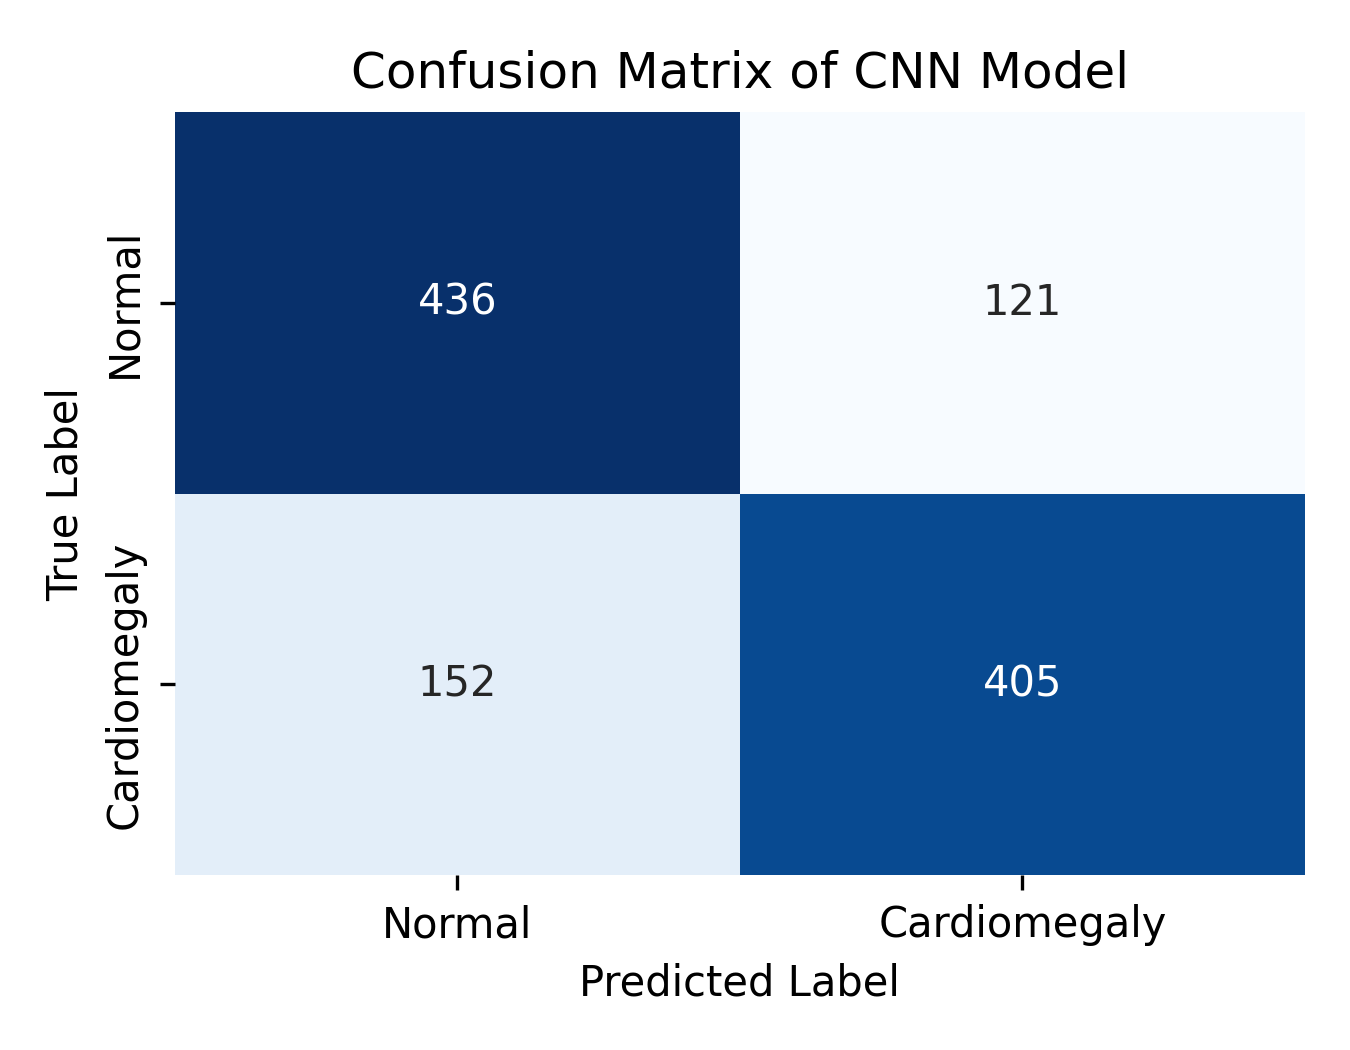
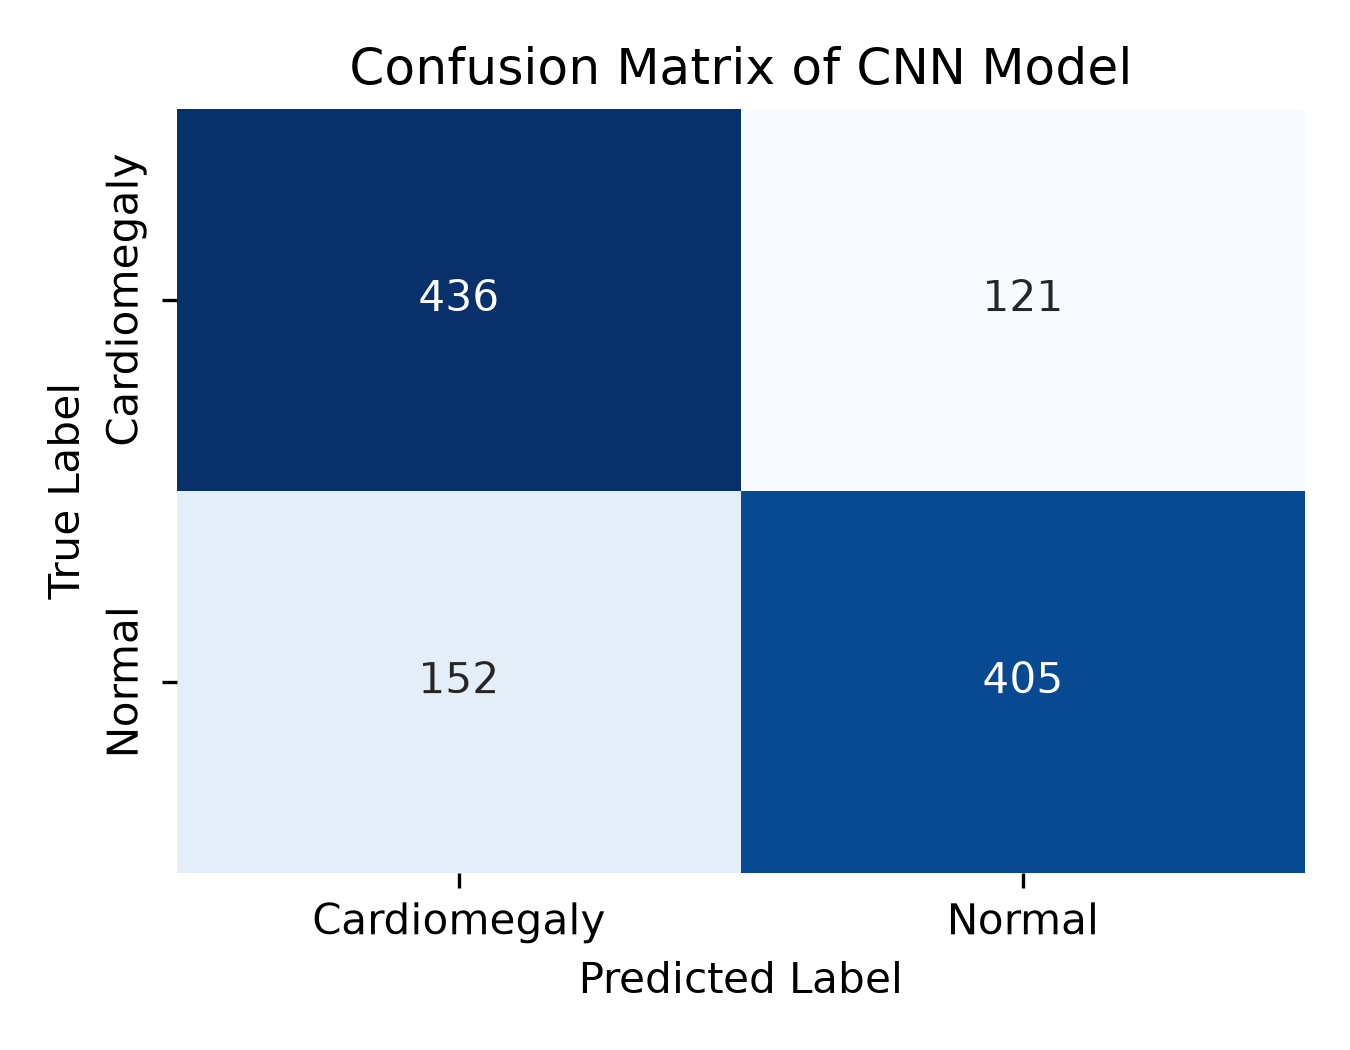
Update: Minor UI text tweak and evaluation sync

diff --git a/templates/index.html b/templates/index.html
@@ -13,7 +13,7 @@
     <section class="intro"><div class="eyebrow"><span></span> LABORATORIUM AI · RADIOLOGI</div><h1>Melihat lebih jelas,<br><em>memahami lebih dalam.</em></h1><p class="intro-copy">Unggah citra rontgen dada untuk mendapatkan analisis awal berbasis model pembelajaran mesin.</p></section>
     <section class="workspace" aria-label="Analisis rontgen">
       <div class="upload-panel">
-        <div class="panel-heading"><div><span class="step">01</span><h2>Tambahkan citra</h2></div><span class="panel-meta">PNG · JPG · WEBP</span></div>
+        <div class="panel-heading"><div><span class="step">01</span><h2>Tambahkan citra</h2></div><span class="panel-meta">PNG · JPG</span></div>
         <form id="prediction-form">
           <label class="dropzone" id="dropzone" for="image-input"><input id="image-input" name="image" type="file" accept="image/png,image/jpeg,image/webp" hidden>
             <div class="upload-icon"><svg viewBox="0 0 24 24" fill="none"><path d="M12 16V4m0 0L7.5 8.5M12 4l4.5 4.5M4 15.5v3A1.5 1.5 0 0 0 5.5 20h13a1.5 1.5 0 0 0 1.5-1.5v-3" stroke="currentColor" stroke-width="1.6" stroke-linecap="round" stroke-linejoin="round"/></svg></div>

diff --git a/evaluasi_cnn.py b/evaluasi_cnn.py
@@ -1,21 +1,23 @@
-import tensorflow as tf
+import os
 import numpy as np
+import tensorflow as tf
 from tensorflow.keras.models import load_model
 from tensorflow.keras.preprocessing.image import ImageDataGenerator
-from sklearn.metrics import classification_report, confusion_matrix
-from sklearn.metrics import roc_curve, auc
+from sklearn.metrics import classification_report, confusion_matrix, roc_curve, auc
 import matplotlib.pyplot as plt
 import seaborn as sns
 
 IMG_SIZE = 160
 BATCH_SIZE = 16
-
 test_dir = "test"
 
 # ======================
 # LOAD MODEL
 # ======================
-model = load_model(os.path.join("models", "cnn_model.keras") if os.path.exists(os.path.join("models", "cnn_model.keras")) else "cnn_model.keras")
+model_path = os.path.join("models", "cnn_model.keras")
+if not os.path.exists(model_path):
+    model_path = "cnn_model.keras"
+model = load_model(model_path)
 model.summary()
 
 # ======================
@@ -29,83 +31,70 @@ test_generator = test_datagen.flow_from_directory(
     color_mode="rgb",
     batch_size=BATCH_SIZE,
     class_mode="binary",
-    shuffle=False  # WAJIB untuk evaluasi
+    shuffle=False  # wajib untuk evaluasi
 )
 
+# Urutan kelas diambil dari data (0 = kelas pertama, 1 = kelas kedua)
+labels = sorted(test_generator.class_indices, key=test_generator.class_indices.get)
+print("Urutan kelas:", test_generator.class_indices)
+
 # ======================
-# EVALUATE MODEL
+# EVALUATE & PREDICT
 # ======================
 loss, accuracy = model.evaluate(test_generator)
 print(f"\nTest Accuracy: {accuracy:.4f}")
 print(f"Test Loss: {loss:.4f}")
 
-# ======================
-# PREDICTION
-# ======================
-predictions = model.predict(test_generator)
-y_pred = (predictions > 0.5).astype(int).reshape(-1)
+predictions = model.predict(test_generator).reshape(-1)   # peluang kelas 1
+y_pred = (predictions > 0.5).astype(int)
 y_true = test_generator.classes
 
 # ======================
-# CLASSIFICATION REPORT
+# CLASSIFICATION REPORT & CONFUSION MATRIX
 # ======================
 print("\nClassification Report:")
-print(classification_report(y_true, y_pred))
+print(classification_report(y_true, y_pred, target_names=labels, digits=4))
 
-# ======================
-# CONFUSION MATRIX (TEXT)
-# ======================
 cm = confusion_matrix(y_true, y_pred)
-print("\nConfusion Matrix:")
+print("\nConfusion Matrix (baris = aktual, kolom = prediksi):")
+print(labels)
 print(cm)
 
-# ======================
-# CONFUSION MATRIX (VISUAL - IEEE READY)
-# ======================
-# ======================
-# CONFUSION MATRIX (VISUAL - CNN)
-# ======================
-plt.figure(figsize=(4.5, 3.5))  # ukuran IEEE
+os.makedirs("evaluation_reports", exist_ok=True)
 
-sns.heatmap(
-    cm,
-    annot=True,
-    fmt='d',
-    cmap='Blues',
-    cbar=False,
-    xticklabels=['Normal', 'Cardiomegaly'],
-    yticklabels=['Normal', 'Cardiomegaly']
-)
-
-plt.xlabel('Predicted Label')
-plt.ylabel('True Label')
-plt.title('Confusion Matrix of CNN Model')
-
+plt.figure(figsize=(4.5, 3.5))
+sns.heatmap(cm, annot=True, fmt="d", cmap="Blues", cbar=False,
+            xticklabels=labels, yticklabels=labels)
+plt.xlabel("Predicted Label")
+plt.ylabel("True Label")
+plt.title("Confusion Matrix of CNN Model")
 plt.tight_layout()
-
-# SAVE (WAJIB untuk paper)
-os.makedirs("evaluation_reports", exist_ok=True); plt.savefig("evaluation_reports/confusion_matrix_cnn.png", dpi=300)
-
+plt.savefig("evaluation_reports/confusion_matrix_cnn.png", dpi=300)
 plt.show()
 
 # ======================
-# ROC CURVE
+# ROC CURVE (Kardiomegali sebagai kelas positif)
 # ======================
-fpr, tpr, thresholds = roc_curve(y_true, predictions)
-roc_auc = auc(fpr, tpr)
+# Kardiomegali = kelas 0, jadi dibalik agar menjadi kelas positif
+pos_is_zero = labels[0].lower().startswith("card")
+if pos_is_zero:
+    y_pos = 1 - y_true
+    score_pos = 1 - predictions
+else:
+    y_pos = y_true
+    score_pos = predictions
 
+fpr, tpr, _ = roc_curve(y_pos, score_pos)
+roc_auc = auc(fpr, tpr)
 print(f"\nAUC Score: {roc_auc:.4f}")
 
 plt.figure(figsize=(4.5, 3.5))
 plt.plot(fpr, tpr, label=f"AUC = {roc_auc:.4f}")
-plt.plot([0, 1], [0, 1], linestyle='--')
-
+plt.plot([0, 1], [0, 1], linestyle="--")
 plt.xlabel("False Positive Rate")
-plt.ylabel("True Positive Rate")
+plt.ylabel("True Positive Rate (Kardiomegali)")
 plt.title("ROC Curve - CNN Model")
 plt.legend()
-
 plt.tight_layout()
-os.makedirs("evaluation_reports", exist_ok=True); plt.savefig("evaluation_reports/roc_curve_CNN.png", dpi=300)
-
+plt.savefig("evaluation_reports/roc_curve_CNN.png", dpi=300)
 plt.show()

diff --git a/evaluasi_transfer.py b/evaluasi_transfer.py
@@ -1,21 +1,24 @@
-import tensorflow as tf
+import os
 import numpy as np
+import tensorflow as tf
 from tensorflow.keras.models import load_model
 from tensorflow.keras.preprocessing.image import ImageDataGenerator
-from sklearn.metrics import classification_report, confusion_matrix
-from sklearn.metrics import roc_curve, auc
+from sklearn.metrics import classification_report, confusion_matrix, roc_curve, auc
 import matplotlib.pyplot as plt
 import seaborn as sns
 
 IMG_SIZE = 160
 BATCH_SIZE = 16
-
 test_dir = "test"
 
 # ======================
 # LOAD MODEL
 # ======================
-model = load_model(os.path.join("models", "model_cardiomegaly_transfer_finetuned.keras") if os.path.exists(os.path.join("models", "model_cardiomegaly_transfer_finetuned.keras")) else "model_cardiomegaly_transfer_finetuned.keras")
+model_name = "model_cardiomegaly_transfer_finetuned.keras"
+model_path = os.path.join("models", model_name)
+if not os.path.exists(model_path):
+    model_path = model_name
+model = load_model(model_path)
 model.summary()
 
 # ======================
@@ -29,80 +32,68 @@ test_generator = test_datagen.flow_from_directory(
     color_mode="rgb",
     batch_size=BATCH_SIZE,
     class_mode="binary",
-    shuffle=False  # WAJIB untuk evaluasi
+    shuffle=False  # wajib untuk evaluasi
 )
 
+labels = sorted(test_generator.class_indices, key=test_generator.class_indices.get)
+print("Urutan kelas:", test_generator.class_indices)
+
 # ======================
-# EVALUATE MODEL
+# EVALUATE & PREDICT
 # ======================
 loss, accuracy = model.evaluate(test_generator)
 print(f"\nTest Accuracy: {accuracy:.4f}")
 print(f"Test Loss: {loss:.4f}")
 
-# ======================
-# PREDICTION
-# ======================
-predictions = model.predict(test_generator)
-y_pred = (predictions > 0.5).astype(int).reshape(-1)
+predictions = model.predict(test_generator).reshape(-1)   # peluang kelas 1
+y_pred = (predictions > 0.5).astype(int)
 y_true = test_generator.classes
 
 # ======================
-# CLASSIFICATION REPORT
+# CLASSIFICATION REPORT & CONFUSION MATRIX
 # ======================
 print("\nClassification Report:")
-print(classification_report(y_true, y_pred))
+print(classification_report(y_true, y_pred, target_names=labels, digits=4))
 
-# ======================
-# CONFUSION MATRIX (TEXT)
-# ======================
 cm = confusion_matrix(y_true, y_pred)
-print("\nConfusion Matrix:")
+print("\nConfusion Matrix (baris = aktual, kolom = prediksi):")
+print(labels)
 print(cm)
 
-# ======================
-# CONFUSION MATRIX (VISUAL - IEEE READY)
-# ======================
-#plt.figure(figsize=(4.5, 3.5))  # ukuran sesuai paper IEEE
+os.makedirs("evaluation_reports", exist_ok=True)
 
-#sns.heatmap(
-#    cm,
-#    annot=True,
-#    fmt='d',
-#    cmap='Blues',
-#    cbar=False,
-#    xticklabels=['Normal', 'Cardiomegaly'],
-#    yticklabels=['Normal', 'Cardiomegaly']
-#)
-
-#plt.xlabel('Predicted Label')
-#plt.ylabel('True Label')
-#plt.title('Confusion Matrix of MobileNetV2 Model')
-
-#plt.tight_layout()
-
-# SAVE gambar (WAJIB untuk paper)
-#plt.savefig("confusion_matrix_mobilenetv2.png", dpi=300)
-
-#plt.show()
+plt.figure(figsize=(4.5, 3.5))
+sns.heatmap(cm, annot=True, fmt="d", cmap="Blues", cbar=False,
+            xticklabels=labels, yticklabels=labels)
+plt.xlabel("Predicted Label")
+plt.ylabel("True Label")
+plt.title("Confusion Matrix of MobileNetV2 Model")
+plt.tight_layout()
+plt.savefig("evaluation_reports/confusion_matrix_mobilenetv2.png", dpi=300)
+plt.show()
 
 # ======================
-# ROC CURVE
+# ROC CURVE (Kardiomegali sebagai kelas positif)
 # ======================
-fpr, tpr, thresholds = roc_curve(y_true, predictions)
+pos_is_zero = labels[0].lower().startswith("card")
+if pos_is_zero:
+    y_pos = 1 - y_true
+    score_pos = 1 - predictions
+else:
+    y_pos = y_true
+    score_pos = predictions
+
+fpr, tpr, _ = roc_curve(y_pos, score_pos)
 roc_auc = auc(fpr, tpr)
-
 print(f"\nAUC Score: {roc_auc:.4f}")
 
 plt.figure(figsize=(4.5, 3.5))
 plt.plot(fpr, tpr, label=f"AUC = {roc_auc:.4f}")
-plt.plot([0, 1], [0, 1], linestyle='--')
-
+plt.plot([0, 1], [0, 1], linestyle="--")
 plt.xlabel("False Positive Rate")
-plt.ylabel("True Positive Rate")
+plt.ylabel("True Positive Rate (Kardiomegali)")
 plt.title("ROC Curve - MobileNetV2 Model")
 plt.legend()
-
 plt.tight_layout()
-os.makedirs("evaluation_reports", exist_ok=True); plt.savefig("evaluation_reports/roc_curve_mobilenetv2.png", dpi=300)
-
+plt.savefig("evaluation_reports/roc_curve_mobilenetv2.png", dpi=300)
 plt.show()
